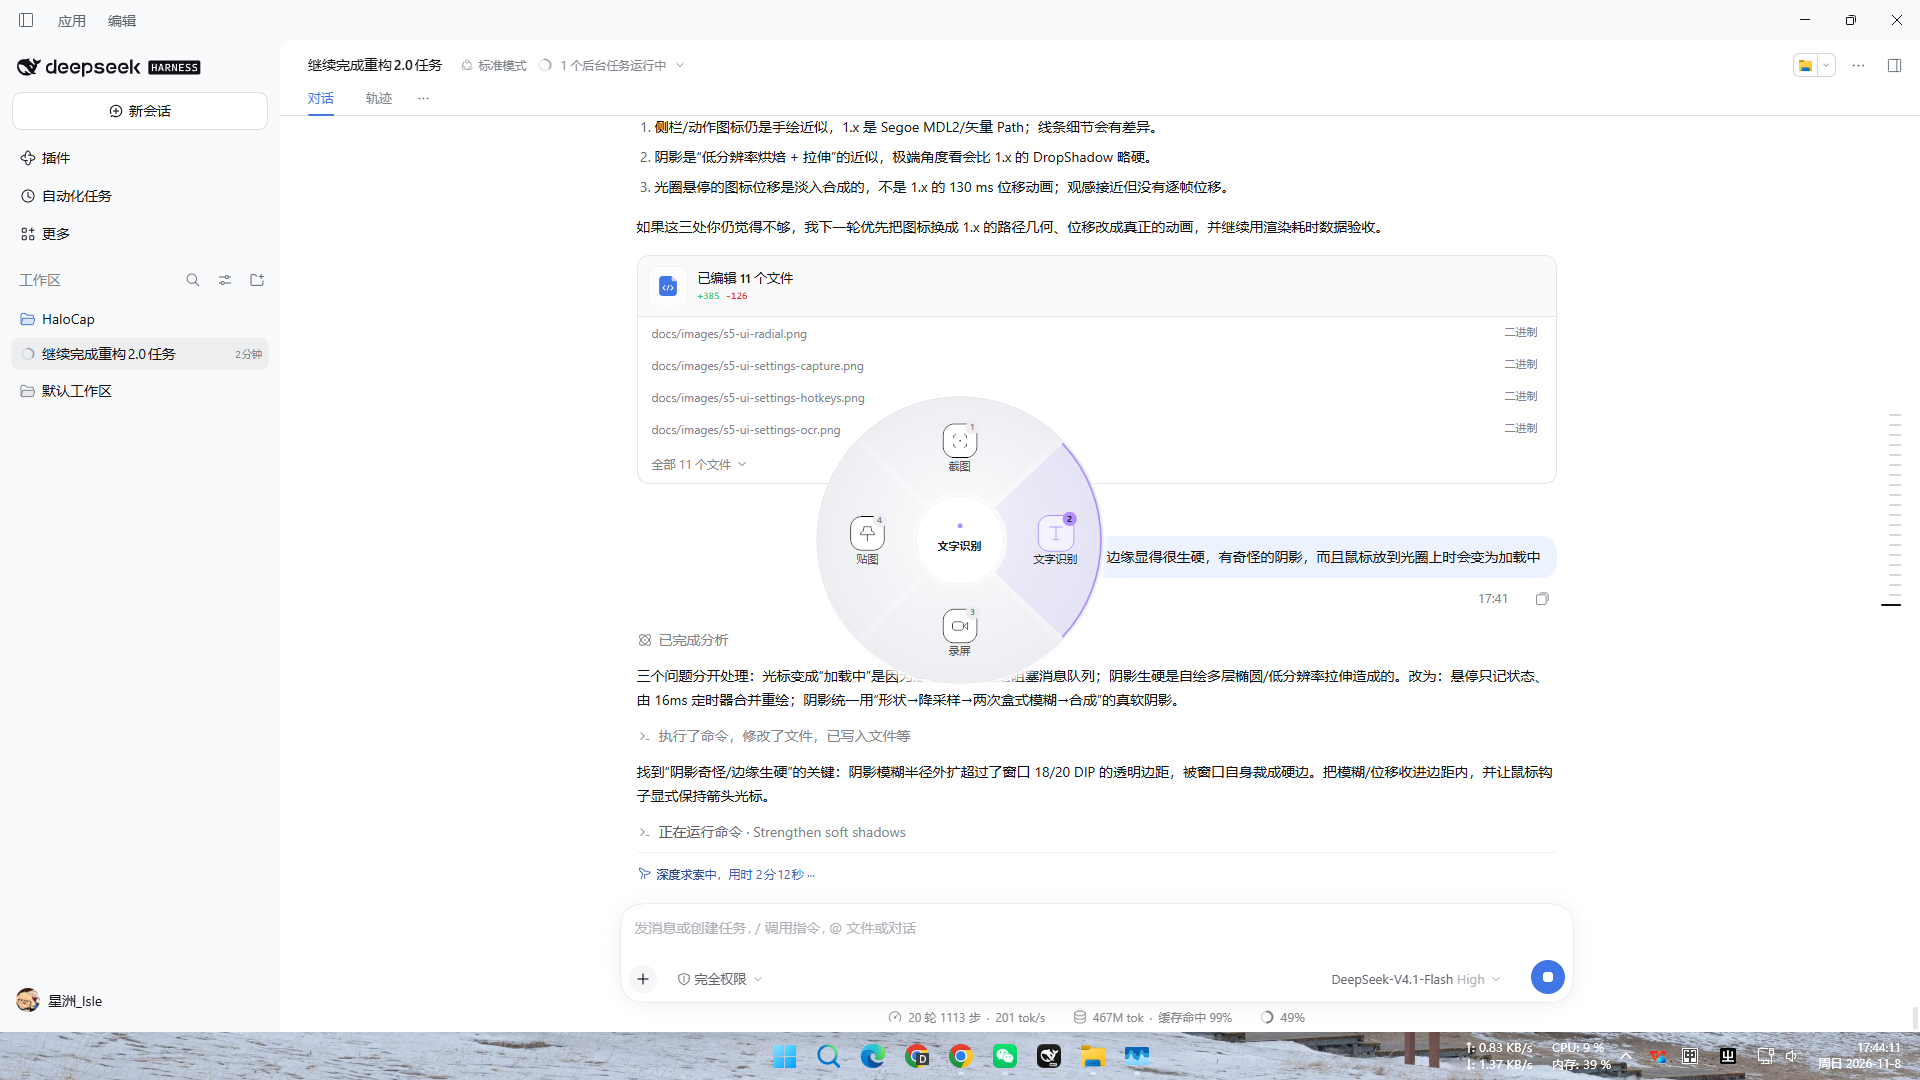
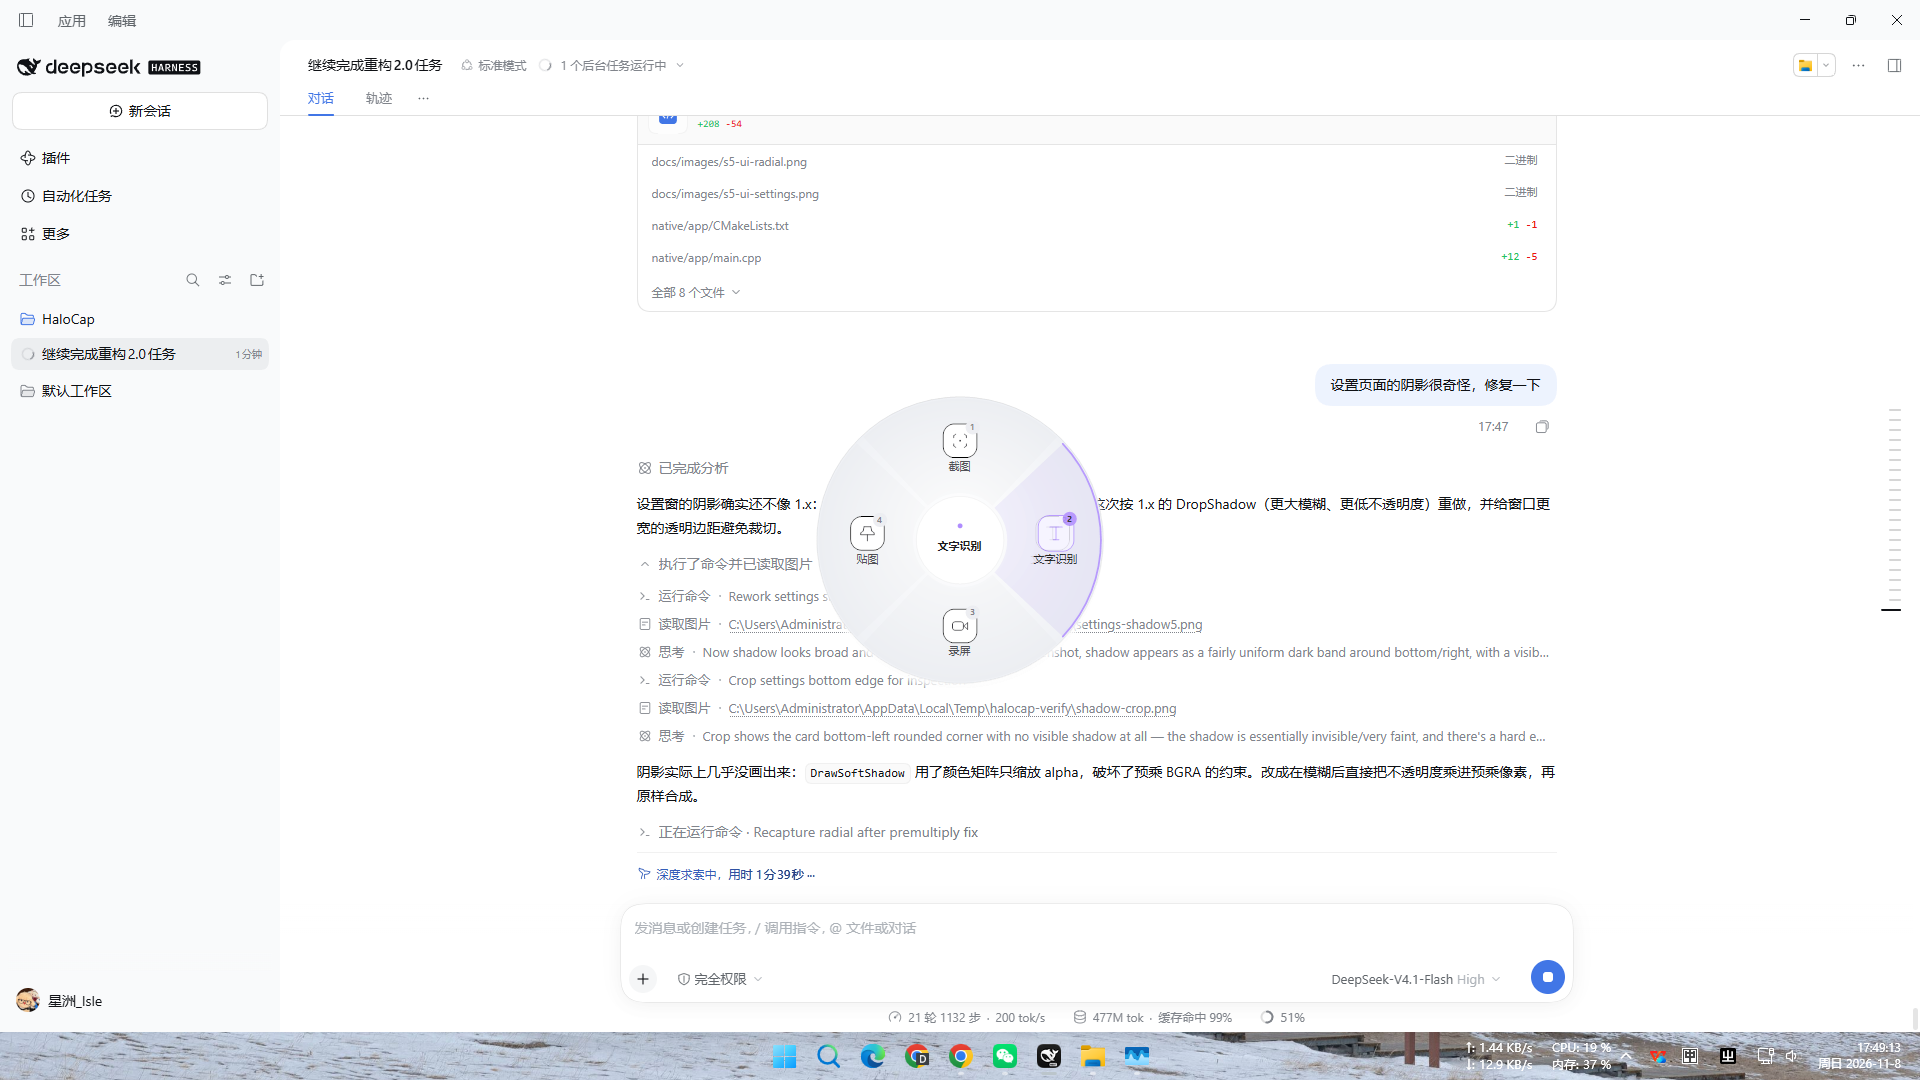
fix: make the settings shadow actually composite correctly
The soft-shadow mask was stored premultiplied (RGB = alpha) and then drawn
through a colour matrix that scaled only alpha, producing RGB > alpha; the
shadow either vanished or showed as a hard rim. Opacity is now multiplied into
the premultiplied pixels after blurring and the mask is blitted without a matrix.

The settings canvas grows to 916x716 with a 48 px inset (the visible card stays
820x620) so a 20 px blur + 6 px offset stays inside the window; the shadow now
fades smoothly instead of being clipped into a straight edge. Click/drag
selftest coordinates were updated for the new inset.

Verified: APP_SETTINGS_CLICK_SELFTEST=1 (TOGGLED/SAVED/RENDER_MS=18),
APP_RADIAL_SELFTEST=1 (cursor=1), ctest 18/18; package relaunched.

diff --git a/native/app/soft_shadow.cpp b/native/app/soft_shadow.cpp
@@ -1,4 +1,4 @@
-#include "soft_shadow.h"
+#include "soft_shadow.h"
 
 #include <algorithm>
 #include <cmath>
@@ -132,8 +132,12 @@ void DrawSoftShadow(Graphics& target, const RectF& rect, float cornerRadius, flo
     for (int y = 0; y < smallHeight; ++y) {
         auto* row = pixels + static_cast<std::size_t>(y) * data.Stride;
         for (int x = 0; x < smallWidth; ++x) {
-            const std::uint8_t value = alpha[static_cast<std::size_t>(y) * smallWidth + x];
-            row[x * 4 + 0] = value;   // 预乘：黑 = 0，alpha 同时写进 RGB
+            // 预乘 BGRA：黑阴影的 RGB 必须等于 alpha；不透明度也一起乘进去，
+            // 否则颜色矩阵只缩放 alpha 会得到 RGB > alpha 的非法预乘值，阴影看起来是坏的。
+            const float scaled = alpha[static_cast<std::size_t>(y) * smallWidth + x] * opacity;
+            const auto value = static_cast<std::uint8_t>(
+                std::clamp(std::lround(scaled), 0L, 255L));
+            row[x * 4 + 0] = value;
             row[x * 4 + 1] = value;
             row[x * 4 + 2] = value;
             row[x * 4 + 3] = value;
@@ -141,19 +145,11 @@ void DrawSoftShadow(Graphics& target, const RectF& rect, float cornerRadius, flo
     }
     mask.UnlockBits(&data);
 
-    ColorMatrix matrix = {};
-    matrix.m[0][0] = 1.0f;
-    matrix.m[1][1] = 1.0f;
-    matrix.m[2][2] = 1.0f;
-    matrix.m[3][3] = opacity;
-    ImageAttributes attributes;
-    attributes.SetColorMatrix(&matrix);
-
     target.SetInterpolationMode(InterpolationModeHighQualityBicubic);
-    target.DrawImage(&mask, RectF(rect.X - margin, rect.Y - margin + offsetY,
-                                  totalWidth, totalHeight),
-                     0.0f, 0.0f, static_cast<float>(smallWidth), static_cast<float>(smallHeight),
-                     UnitPixel, &attributes);
+    target.DrawImage(&mask,
+                     RectF(rect.X - margin, rect.Y - margin + offsetY, totalWidth, totalHeight),
+                     0.0f, 0.0f, static_cast<float>(smallWidth),
+                     static_cast<float>(smallHeight), UnitPixel);
 }
 
 }

diff --git a/native/app/main.cpp b/native/app/main.cpp
@@ -1472,16 +1472,16 @@ int Run(const Options& options) {
             GetWindowRect(testWindow->Handle(), &windowRect);
             const LRESULT dragHit = SendMessageW(
                 testWindow->Handle(), WM_NCHITTEST, 0,
-                MAKELPARAM(windowRect.left + 300, windowRect.top + 60));
+                MAKELPARAM(windowRect.left + 300, windowRect.top + 80));
             const bool draggable = dragHit == HTCAPTION;
             const auto click = [&](int x, int y) {
                 const LPARAM point = MAKELPARAM(x, y);
                 SendMessageW(testWindow->Handle(), WM_LBUTTONDOWN, MK_LBUTTON, point);
                 SendMessageW(testWindow->Handle(), WM_LBUTTONUP, 0, point);
             };
-            click(752, 229);   // 通用页「开机自启」开关（组标签下方第一行）
+            click(800, 241);   // 通用页「开机自启」开关（组标签下方第一行）
             const std::int64_t clickStart = QpcNowUs();
-            click(118, 153);   // 切到「快捷键」页
+            click(100, 165);   // 切到「快捷键」页
             const double clickMs = static_cast<double>(QpcNowUs() - clickStart) / 1000.0;
             Sleep(120);
 
@@ -1491,7 +1491,7 @@ int Run(const Options& options) {
                 halocap::platform::win32::SaveBgraPng(options.settingsClickSelftestPath,
                                                       desktop.bgra.data(), desktop.width,
                                                       desktop.height, desktop.width * 4);
-            click(748, 590);   // 保存
+            click(796, 638);   // 保存
             Sleep(120);
 
             AddFlag(report, "APP_SETTINGS_CLICK_WINDOW", true);

diff --git a/native/app/settings_window.cpp b/native/app/settings_window.cpp
@@ -31,9 +31,9 @@ namespace {
 using namespace Gdiplus;
 
 constexpr wchar_t kClassName[] = L"HaloCapSettings";
-constexpr float kWindowW = 856.0f;   // 820 卡片 + 18 DIP 透明边给阴影
-constexpr float kWindowH = 656.0f;
-constexpr float kMargin = 36.0f;    // 卡片 inset：18 视觉边距 + 18 阴影余量
+constexpr float kWindowW = 916.0f;   // 820 卡片 + 48 DIP/侧 透明边给阴影
+constexpr float kWindowH = 716.0f;
+constexpr float kMargin = 48.0f;    // 卡片 inset：48 DIP 阴影余量
 constexpr float kTitleBar = 50.0f;
 constexpr float kSidebar = 218.0f;
 constexpr float kFooter = 60.0f;
@@ -770,7 +770,7 @@ void SettingsWindow::BuildBackgroundCache() {
     Fonts* fonts = GetFonts();
 
     // 真软阴影：形状 → 降采样 → 两次盒式模糊 → 拉伸合成（缓存里只做一次）。
-    DrawSoftShadow(g, frame, kRadius, 0.8f, 14.0f, 6.0f, false);    FillRoundRect(g, frame, kRadius, Color(255, 255, 255, 255));
+    DrawSoftShadow(g, frame, kRadius, 0.35f, 20.0f, 6.0f, false);    FillRoundRect(g, frame, kRadius, Color(255, 255, 255, 255));
     FillRoundRect(g, frame, kRadius, content);
     StrokeRoundRect(g, frame, kRadius, Color(38, 0, 0, 0));
 
